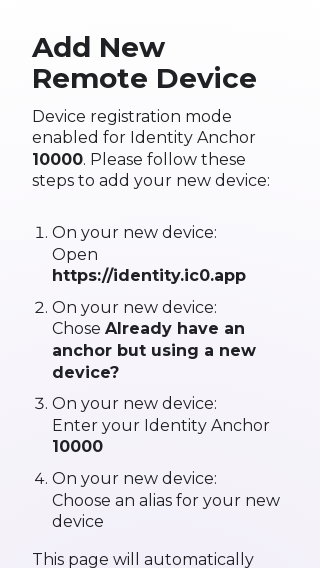
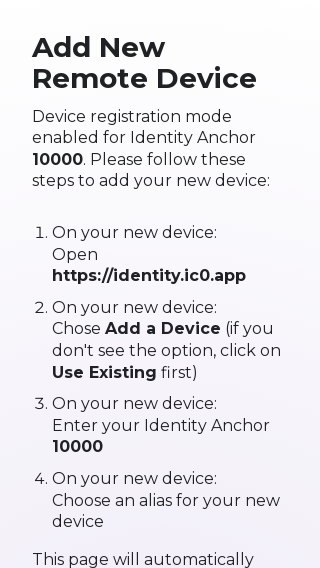
Update add device instructions (#1016)
* Update add device instructions

The flow changed a little but the text wasn't updated.

* Remove 'and then'

* 🤖 Selenium screenshots auto-update

Changed region(s): [[0.1562, 0.5687, 0.875, 0.6884]]

diff --git a/src/frontend/src/flows/addDevice/manage/pollForTentativeDevice.ts b/src/frontend/src/flows/addDevice/manage/pollForTentativeDevice.ts
@@ -27,10 +27,9 @@ const pageContent = (userNumber: bigint) => html`
       </li>
       <li>
         On your <em>new</em> device:<br />
-        Chose
-        <strong class="t-strong"
-          >Already have an anchor but using a new device?</strong
-        >
+        Chose <strong class="t-strong">Add a Device</strong> (if you don't see
+        the option, click on
+        <strong class="t-strong">Use Existing</strong> first)
       </li>
       <li>
         On your <em>new</em> device:<br />

diff --git a/src/frontend/src/flows/addDevice/welcomeView/index.ts b/src/frontend/src/flows/addDevice/welcomeView/index.ts
@@ -46,7 +46,7 @@ const pageContent = (connection: Connection, userNumber?: bigint) => {
 };
 
 /**
- * Entry point for the flow of adding a new authenticator when starting from the welcome view (by clicking 'Already have an anchor but using a new device?').
+ * Entry point for the flow of adding a new authenticator when starting from landing page.
  * This shows a prompt to enter the identity anchor to add this new device to.
  */
 export const addRemoteDevice = (
